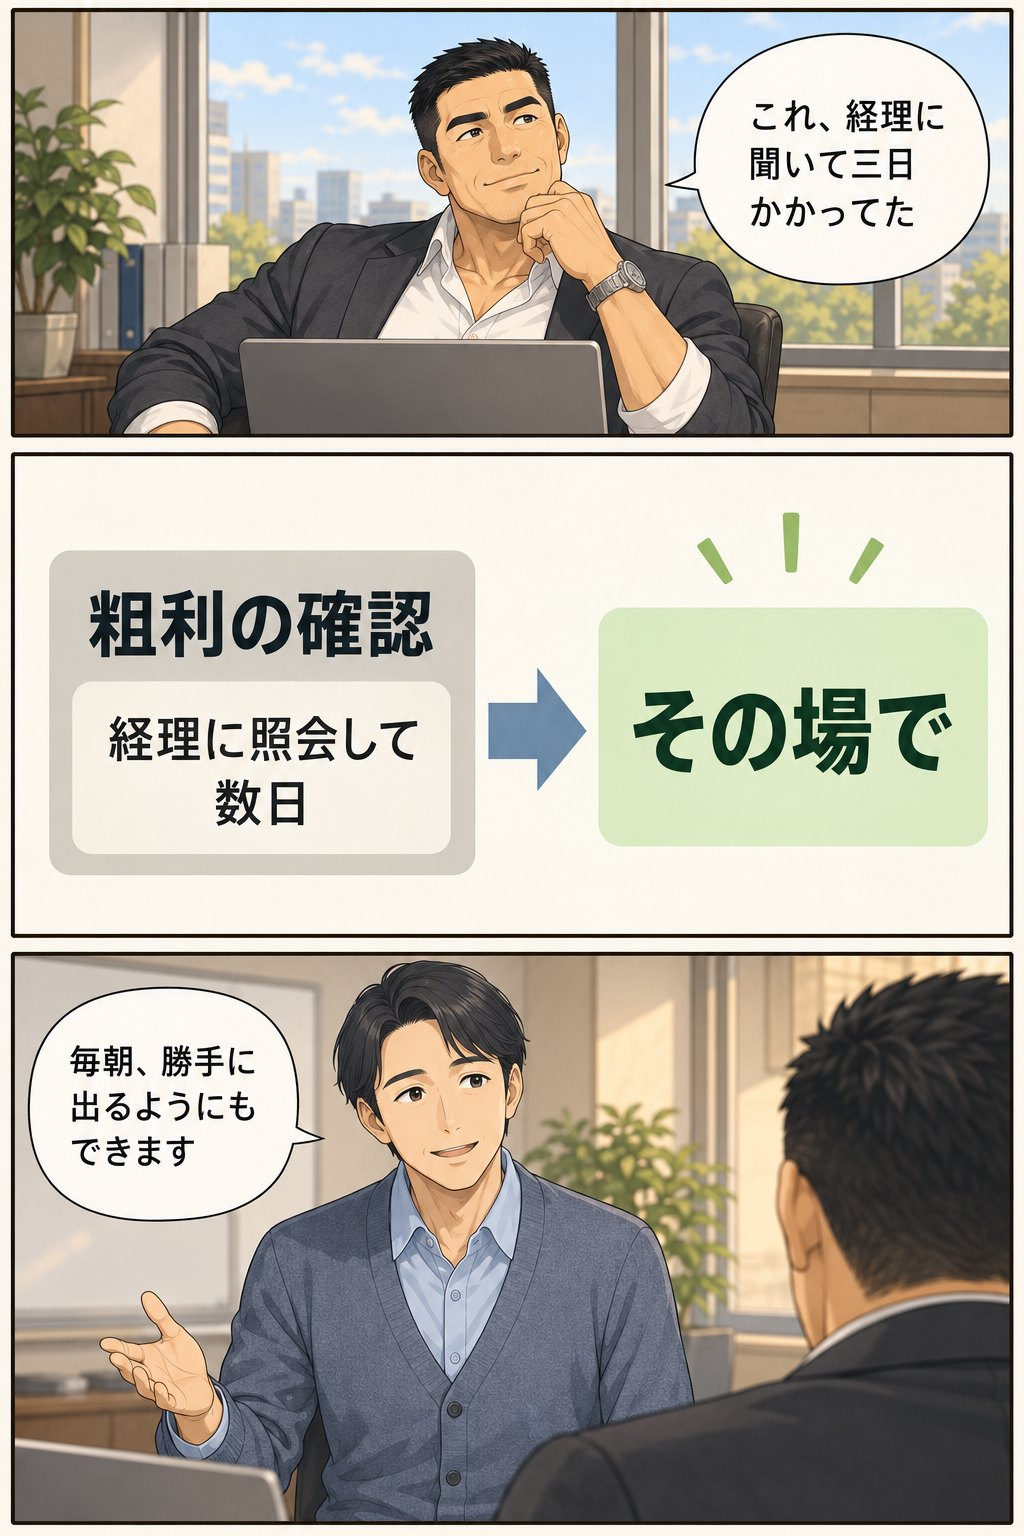
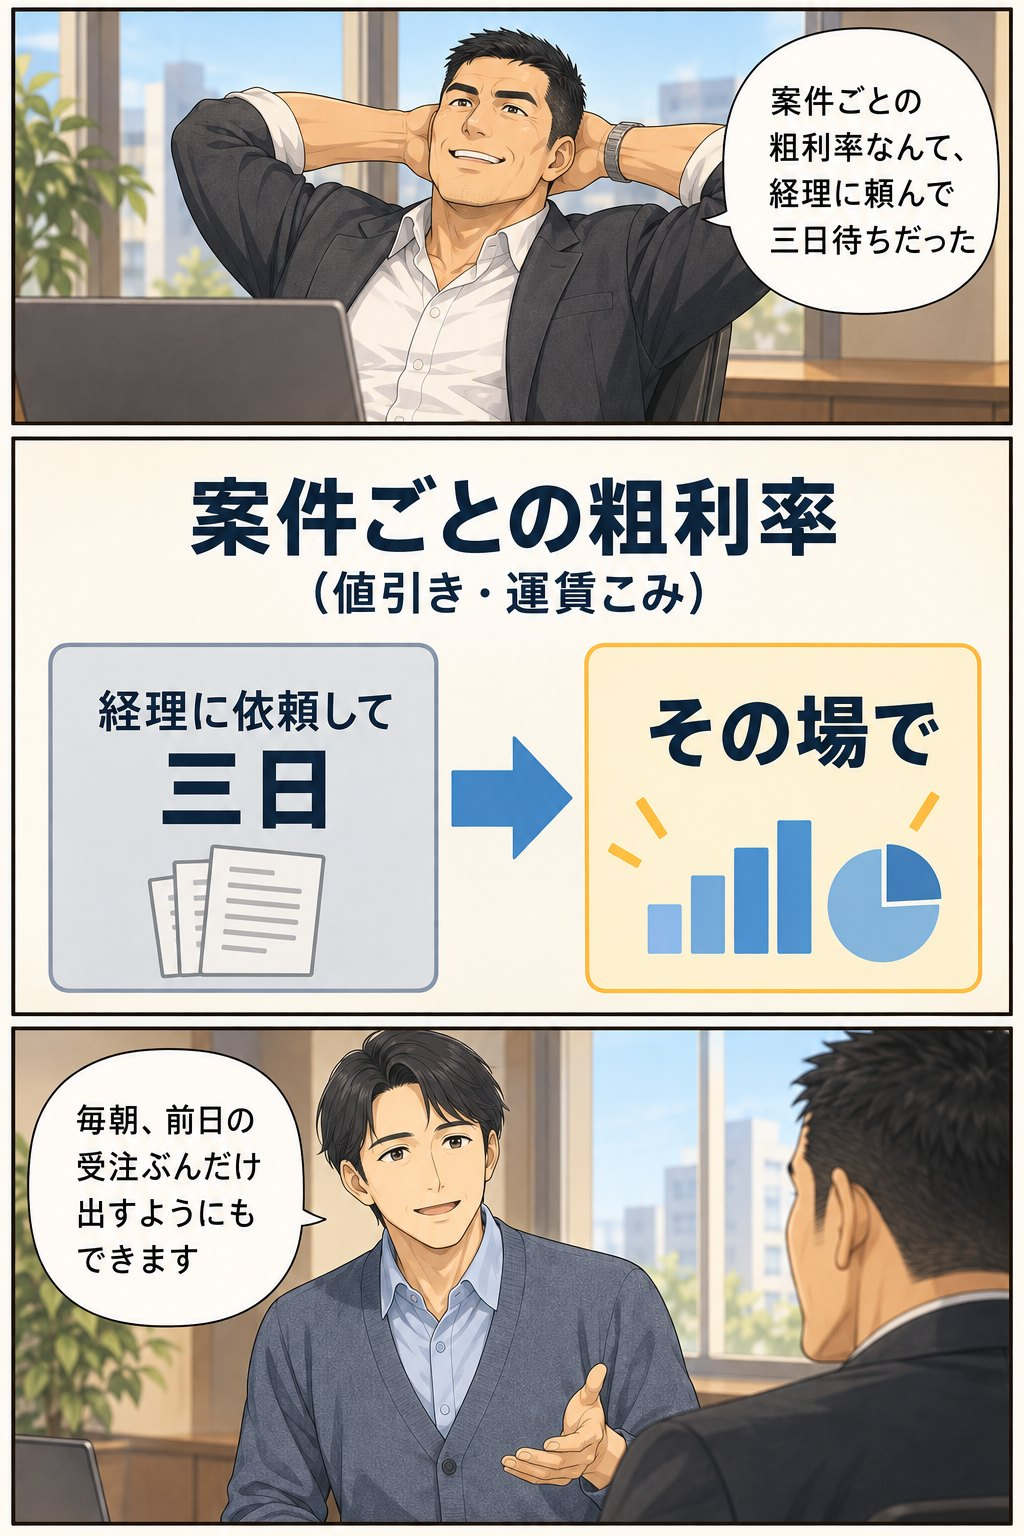
番外編を指摘どおり書き直して差し替え（全24ページ中17ページ）
物語：探した期間を一か月から一週間に。西山が制度の制約を説明して
「助成金を使わない研修」を提案する形にし、鷲尾には助成金研修の講師も
することと、実務を扱うと訓練時間に入れられないため基礎知識までになる
ことを言わせた。

実演：三通り出すだけならチャットでもできるため、受注CSVと単価表を
読んでファイルを作る画に変更。確認は元資料との突き合わせをやめ、
別のAIに同じことを聞かせて食い違いを社長が判断する形に。MCPは
接続画面と粗利率まで具体に。商談メモから報告と次の一手が出る場面を追加。

演出：神崎の怒りを落胆に。社長のほうから自動送信に手を伸ばして止まる
流れに。帰り際に握手。最終ページは物語の要約をやめ、できること3つと
受け方・価格の表に差し替えた。

diff --git a/bangai1/index.html b/bangai1/index.html
@@ -8,7 +8,7 @@
 <meta property="og:title" content="ある経営者の選択 番外編 〜探していた、一週間〜">
 <meta property="og:description" content="助成金を使うと、十時間以上・職種ごとの組み直し・実務は訓練に使えない。そして社長と役員は対象外。着手は一か月半あと。待つあいだに二件目を失った社長の話。全24ページ。">
 <meta property="og:type" content="article">
-<meta property="og:image" content="https://mgomita-ui.github.io/hatarakikata4-lp/bangai1/pages/og.jpg?v=0912b">
+<meta property="og:image" content="https://mgomita-ui.github.io/hatarakikata4-lp/bangai1/pages/og.jpg?v=0913a">
 <meta name="twitter:card" content="summary_large_image">
 <link rel="stylesheet" href="https://fonts.googleapis.com/css2?family=Noto+Sans+JP:wght@400;500;700;900&family=Poppins:wght@600;700&display=swap">
 <style>
@@ -87,7 +87,7 @@
   var chapters=[[2,'失注'],[5,'提案'],[7,'対象外'],[11,'三時間'],[21,'誓約'],[23,'紙一重']];
   var viewer=document.getElementById('viewer'),endEl=document.getElementById('end');
   for(var i=1;i<=TOTAL;i++){var n=('0'+i).slice(-2);var s=document.createElement('section');s.className='slide';s.id='p'+n;
-    s.innerHTML='<img src="pages/p'+n+'.jpg?v=0912b" alt="ページ'+i+'" '+(i>2?'loading="lazy"':'')+' width="1024" height="1536"><span class="n">'+n+' / '+TOTAL+'</span>';
+    s.innerHTML='<img src="pages/p'+n+'.jpg?v=0913a" alt="ページ'+i+'" '+(i>2?'loading="lazy"':'')+' width="1024" height="1536"><span class="n">'+n+' / '+TOTAL+'</span>';
     viewer.insertBefore(s,endEl);}
   var slides=Array.prototype.slice.call(viewer.querySelectorAll('.slide'));
   var nav=document.getElementById('nav');

diff --git a/bootcamp/index.html b/bootcamp/index.html
@@ -962,7 +962,7 @@
           <span class="tx"><span class="tag">映像・1分34秒</span><span class="tt">時間がもったいない<small>AI研修が、いつのまにか遠くなる</small></span></span>
         </a>
         <a class="mcta" href="../manga2/" aria-label="漫画『ある経営者の選択 II』を読む"><span class="cv"><img src="../manga2/pages/cover.jpg" alt=""></span><span class="tx"><span class="tag">漫画・全24ページ</span><span class="tt">町工場の社長が、会場で5時間<small>ある経営者の選択 II</small></span></span></a>
-        <a class="mcta" href="../bangai1/" aria-label="番外編『探していた、一週間』を読む"><span class="cv"><img src="../bangai1/pages/cover.jpg?v=0912b" alt=""></span><span class="tx"><span class="tag">番外編・全24ページ</span><span class="tt">営業会社の社長が、御社で3時間<small>番外編「探していた、一週間」</small></span></span></a>
+        <a class="mcta" href="../bangai1/" aria-label="番外編『探していた、一週間』を読む"><span class="cv"><img src="../bangai1/pages/cover.jpg?v=0913a" alt=""></span><span class="tx"><span class="tag">番外編・全24ページ</span><span class="tt">営業会社の社長が、御社で3時間<small>番外編「探していた、一週間」</small></span></span></a>
       </div>
       <p class="firm">レリック社会保険労務士法人<small>AI MANAGEMENT × QUEST-STYLE BOOTCAMP ｜ 2026</small></p>
     </div>

diff --git a/index.html b/index.html
@@ -532,7 +532,7 @@
           <span class="go" aria-hidden="true">›</span>
         </a>
         <a class="mcta" href="bangai1/" aria-label="番外編 漫画『探していた、一週間』を読む（全24ページ）" style="margin-top:8px">
-          <span class="cv"><img loading="lazy" decoding="async" src="bangai1/pages/cover.jpg?v=0912b" alt="漫画『ある経営者の選択 番外編』表紙"></span>
+          <span class="cv"><img loading="lazy" decoding="async" src="bangai1/pages/cover.jpg?v=0913a" alt="漫画『ある経営者の選択 番外編』表紙"></span>
           <span class="tx"><span class="tag">番外編・AIで制作した漫画</span><span class="tt">ある経営者の選択 番外編<small>探していた、一週間</small></span><span class="meta">営業会社の社長が、御社で3時間。助成金を使わなかった理由</span></span>
         </a></div>
       <div class="proof"><span>法令の根拠と、働き方の実態を確認</span><span>減るものも先に説明</span><span>従業員と一緒に決める</span></div>
